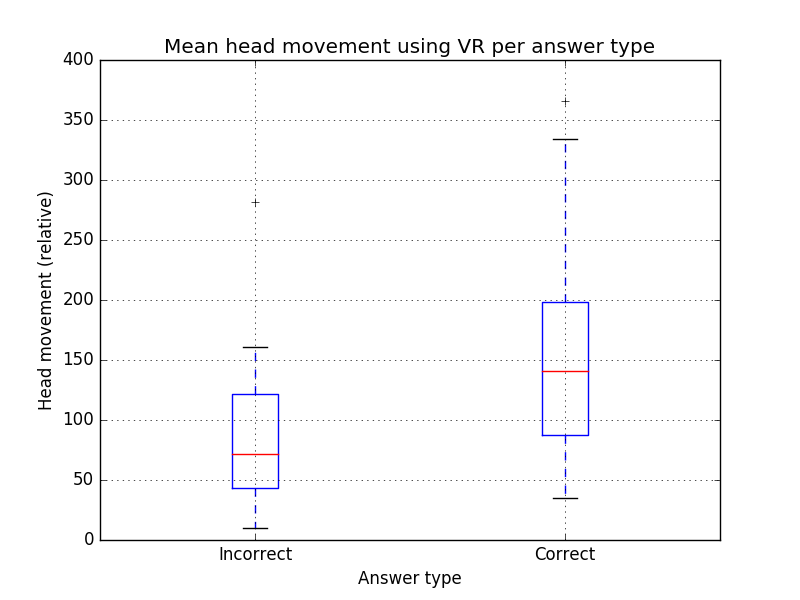
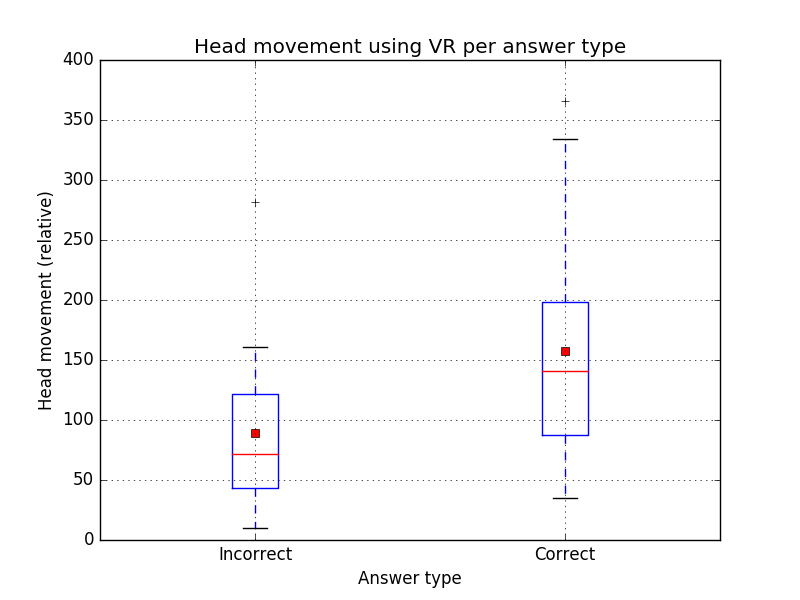
Added mean to boxplots

Changed region(s): [[0.1875, 0.06, 0.8125, 0.09], [0.6875, 0.57, 0.7188, 0.6], [0.3125, 0.72, 0.3438, 0.75]]

diff --git a/results/statistic.py b/results/statistic.py
@@ -58,7 +58,7 @@ for i in range (1,4):
     df2 ["Compl. "+str(i)] = column
 df2["VR Support"] = 'VR'
 df = df.append(df2)
-axes = df.groupby('VR Support').boxplot(return_type='axes')
+axes = df.groupby('VR Support').boxplot(return_type='axes',showmeans=True)
 for i in range (1,3):
     ax = axes.popitem()
     ax[1].set_ylabel("Response time (seconds)")
@@ -75,8 +75,8 @@ for i in range (1,4):
     column = column['Head Movement']
     print ("Mean movement for complexity "+ str(i) + ": {0:.4f}".format(column.mean()))
     df ["Complexity "+str(i)] = column
-ax = df.boxplot(return_type='axes')
-ax.set_title("Mean head movement using VR per complexity")
+ax = df.boxplot(return_type='axes',showmeans=True)
+ax.set_title("Head movement using VR per complexity")
 ax.set_ylabel("Head movement (relative)")
 plt.show()
 plt.clf()
@@ -95,8 +95,8 @@ column = column['Head Movement']
 print ("Mean movement for correct answers: {0:.4f}".format(column.mean()))
 df ["Correct"] = column
 
-ax = df.boxplot(return_type='axes')
-ax.set_title("Mean head movement using VR per answer type")
+ax = df.boxplot(return_type='axes',showmeans=True)
+ax.set_title("Head movement using VR per answer type")
 ax.set_ylabel("Head movement (relative)")
 ax.set_xlabel("Answer type")
 plt.show()
